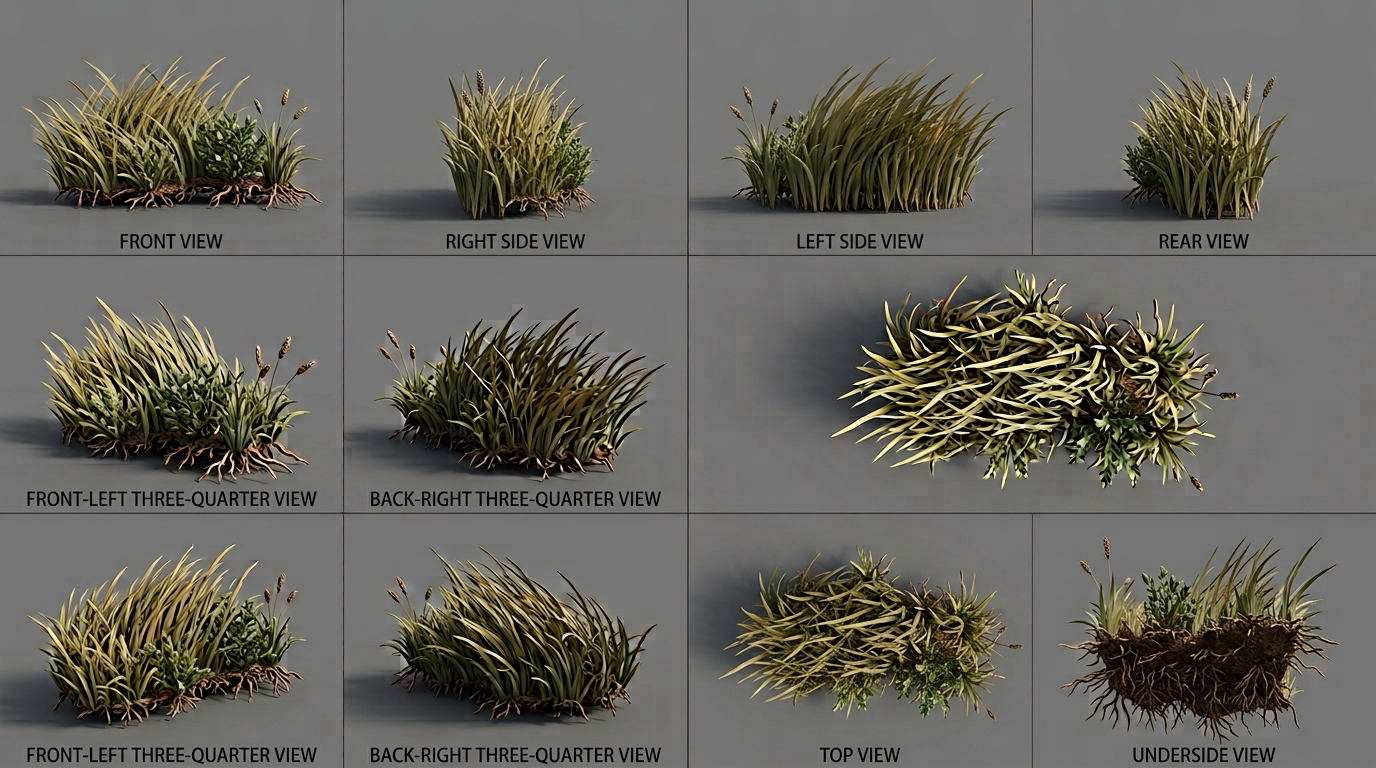
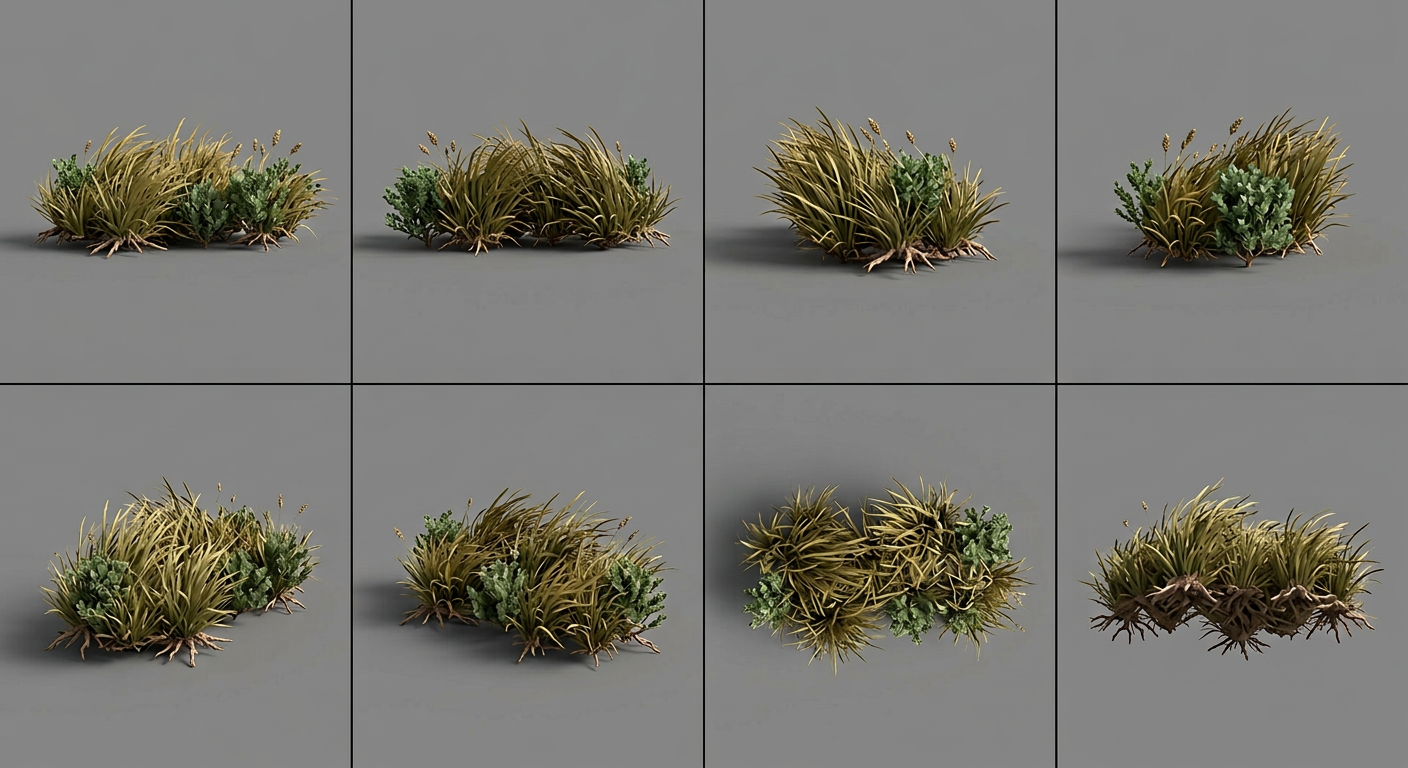
Add coastal terrain reference batch

diff --git a/art-src/meshy/hf-refs/README.md b/art-src/meshy/hf-refs/README.md
@@ -29,12 +29,28 @@ These are multi-angle, single-object reference sheets governed by [`docs/ISLAND_
 | 12 | `jungle-understory-cluster` | Broadleaf understory | pass | Compact modular footprint with useful plant-height variation and top/underside views. |
 | 13 | `fern-cluster-large` | Large fern cluster | pass | Clean repeatable fern module with strong crown consistency and no terrain base. |
 | 14 | `flowering-shrub-cluster` | Flowering shrubs | pass | Readable woody structure, controlled coral accents, top and underside coverage. |
-| 15 | `coastal-grass-cluster` | Coastal grass and scrub | **weak—regenerate** | Object is useful, but the sheet contains forbidden view labels. Regenerate after turn refresh. |
+| 15 | `coastal-grass-cluster` | Coastal grass and scrub | pass | Regenerated without labels; eight clean views preserve the compact windswept module. |
 | 16 | `broadleaf-tree-cluster` | Two-tree broadleaf cluster | pass | Strong interlocking canopy, exposed roots, readable branch and canopy views. |
 | 17 | `windswept-highland-trees` | Wind-shaped highland pair | pass | Clear shared wind direction, sparse crown language, suitable for exposed upper slopes. |
 | 18 | `hanging-vine-cluster` | Hanging vine curtain | pass | Multiple hanging silhouettes and useful top attachment views; no wall/support baked in. |
 | 19 | `cliff-creeper-cluster` | Cliff creeper network | pass | Low modular creeping mass with varied silhouettes and no included cliff geometry. |
 | 20 | `driftwood-root-cluster` | Driftwood/root dressing | pass | Stable root and broken-limb silhouette with complete radial/top coverage. |
+
+## Batch 03 — rocks, coastal terrain, and waterfall geology
+
+![Batch 03 terrain review contact sheet](./review/batch-03-terrain-contact-sheet.jpg)
+
+| # | ID | Subject | Status | Review notes |
+|---|---|---|---|---|
+| 21 | `basalt-boulder-cluster` | Basalt boulder cluster | pass | Strong size hierarchy and radial/top coverage; clean natural footprint. |
+| 22 | `ochre-rock-slab-cluster` | Layered ochre slabs | pass | Readable eroded strata and low modular silhouette from eight views. |
+| 23 | `scree-cluster-mixed` | Mixed scree cluster | pass | Stable basalt/ochre composition with useful top and underside views. |
+| 24 | `sea-stack-hero` | Hero coastal sea stack | pass | Strong cardinal silhouette, basalt foot and ochre crown; no ocean or decorative base. |
+| 25 | `natural-sea-arch` | Natural coastal arch | pass | Consistent opening and crown thickness with front/rear/profile/top coverage. |
+| 26 | `beach-shelf-module` | Coastal shelf transition | pass | Clear land/water-facing profiles, modular edges and top surface. |
+| 27 | `tide-pool-rock-ring` | Tide-pool surround | **weak—regenerate** | Geometry is useful, but forbidden letters appeared between panels. Regenerate after refresh. |
+| 28 | `waterfall-lip-rock-module` | Bare waterfall lip | pass | Channel, spill edge, profiles, connectors and top are clearly exposed. |
+| 29 | `plunge-pool-rocks` | Plunge-pool surround | pass | Strong inflow/outflow gaps and radial/top coverage with no water baked in. |
 
 ## Shared review result
 
